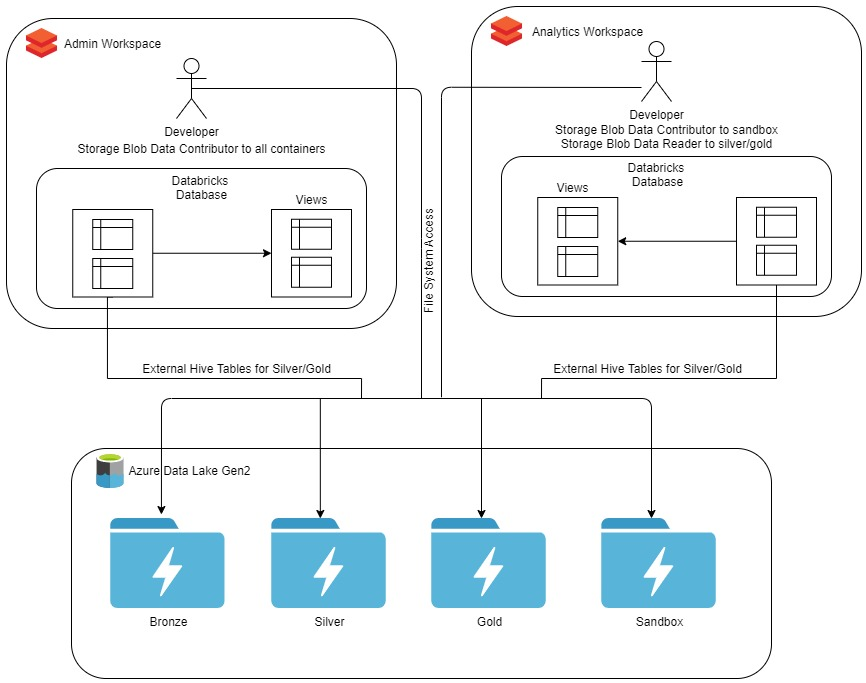
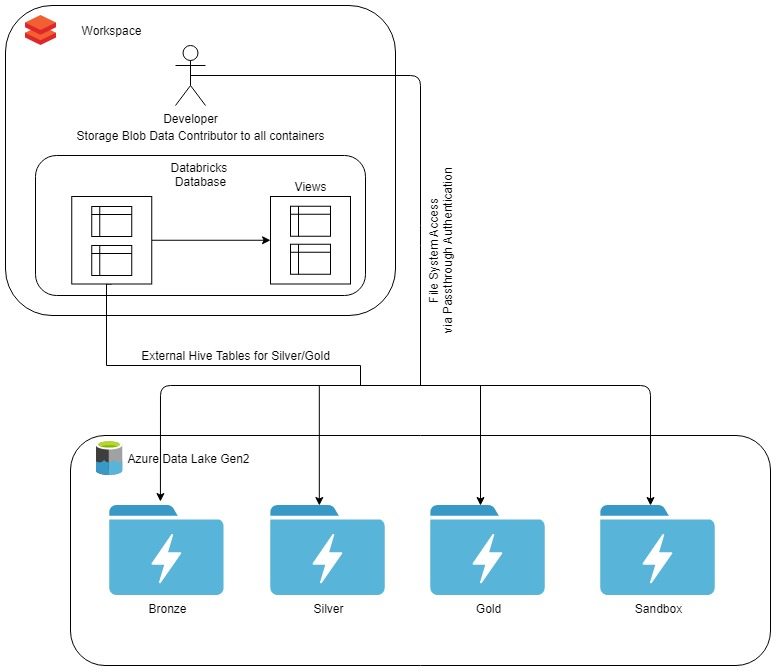
updating architecture

diff --git a/DeployDatabricks/README.md b/DeployDatabricks/README.md
@@ -16,22 +16,18 @@ There are a number of key **assumptions** that I will make:
             - In some scenarios it could mean splitting the bronze datasets into multiple silver tables. 
         - `gold`: business data layer used to support solutions. Note, we leverage the silver layer as our source data to apply business logic and transformations to support specific business needs. We will assume this uses Databricks Delta.
 
-- Each of the containers will be mounted to our Databricks workspace using the following format: 
-    - `bronze` --- > `/mnt/datalake/<storage account name>/bronze`
-    - `silver` --- > `/mnt/datalake/<storage account name>/silver`
-    - `gold` --- > `/mnt/datalake/<storage account name>/gold`
 
-- Under each of our mount points we will expect there to be three levels: **solution**, **project**, **table**. 
+- Under each of our containers we will expect there to be three levels: **solution**, **project**, **table**. 
     - These levels allow for logical groupings of our data and allow the data lake to not only grow in depth but in width as more sources are added. 
 
 
 Using the assumptions made here let's provide and example. Assume you are moving data from a Microsoft SQL Server to a data lake. The bronze layer may contain any file format json, parquet, csv etc. Since our source system is a relational database let's assume we are using parquet files that are being uploaded on a daily basis. Since we are only getting data on a daily basis we will land our data into folders organized by year and simply add a datetime to our file name. Our bronze layer would likely take the form: 
 
-`/mnt/datalake/<storage account name>/bronze/<database name>/<schema name>/<table name>/2020/<table_name>_YYYYMMDDHHmmss.parquet`
+`<storage account name>/bronze/<database name>/<schema name>/<table name>/2020/<table_name>_YYYYMMDDHHmmss.parquet`
 
 Since our silver and gold layers are using Databricks Delta they will follow a similar format, excluding the year directory.
 
-`/mnt/datalake/<storage account name>/silver/<database name>/<schema name>/<table name>`
+`<storage account name>/silver/<database name>/<schema name>/<table name>`
 
 
 
@@ -41,9 +37,11 @@ Please note that all Delta tables will be created as external Hive tables in the
 <br></br>
 
 
-Notice that we deploy two Databricks workspaces, the Admin workspace is purposed for your big data team that creates jobs, manages production data processes, and has the ability to read/write accross the entire data lake. The analytics workspace gives analyst users that use the delta lake read access to the silver and gold tables, and contributor access to a sandbox environment. The analytics workspaces enables user experimentation without interfering with production data pipelines. Currently, the Analytics Workspace uses shared mounts for data access but Databricks does have the ability to use [passthrough authentication](https://docs.microsoft.com/en-us/azure/databricks/security/credential-passthrough/adls-passthrough) on Azure Data Lake Store, however, there are some [limitations](https://docs.microsoft.com/en-us/azure/databricks/security/credential-passthrough/adls-passthrough#limitations) surrounding that feature therefore, it should only be used if required. 
+Notice that we deploy one Databricks workspaces that leverages [passthrough authentication](https://docs.microsoft.com/en-us/azure/databricks/security/credential-passthrough/adls-passthrough) on Azure Data Lake Store, please note that there are some [limitations](https://docs.microsoft.com/en-us/azure/databricks/security/credential-passthrough/adls-passthrough#limitations).  
 
 For example, passthrough authentication on a standard cluster can only support one user at a time and standard clusters are the only clusters that can interactively execute scala commands. Which means there is no sharing compute if your data team writes code in scala. Note - this is not the case with high concurrency clusters (SQL, R, and Python).  
+
+Recommendation -> Databricks mounts make it easy to access data in ADLS Gen2, but since mount access is global all users will have the same access. If mounts are implemented organizations should deploy two workspaces, one that has READ/WRITE ability and another with READ only access. 
 
 ## Notebooks Available
 
@@ -56,6 +54,7 @@ Notebooks are organized into different folders depending on their purpose in the
 
 ### Admin Notebooks
 
+**NOTE:  current notebooks are executed using a mount point. This will be edited in the future since we are using passthrough authentication.
 
 The following notebooks can be *manually* imported into a workspace and executed. Please note that any admin notebooks require delta tables will be organized using the `utility` solution. For example, our data collection notebooks will be located at: `/mnt/datalake/<storage account name>/silver/utility/data_collection/<table name>`
 - [CreateSecret.py](Admin/CreateSecret.py): a notebook that will put a secret in a secret scope. 

diff --git a/DeployDatabricks/Setup/README.md b/DeployDatabricks/Setup/README.md
@@ -64,11 +64,3 @@ Please execute the following steps in order to deploy a Databricks environment.
         - databricksToken
     - Grants Storage Blob Data Contributor access to service principal
         - This is the authentication used for Databricks to access containers
-
-1. Execute the [Run Mount Data Lake](RunMountDataLake.py) script which will complete the following:
-    - Imports the [`MountDataLake.py`](MountDataLake.py) notebook to the Setup directory in the workspace root
-    - Creates a small cluster
-        - Saves cluster id to config file
-        - Spark Version: `6.6.x-scala2.11`
-    - Executes MountDataLake notebook to mount our three storage containers: `bronze`, `silver`, `gold`
-
